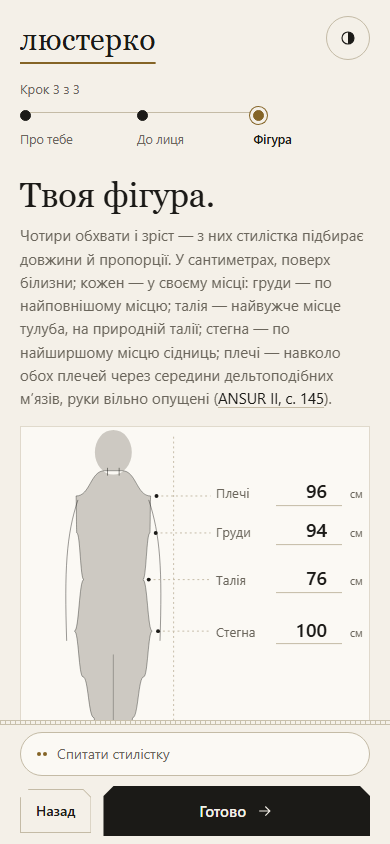
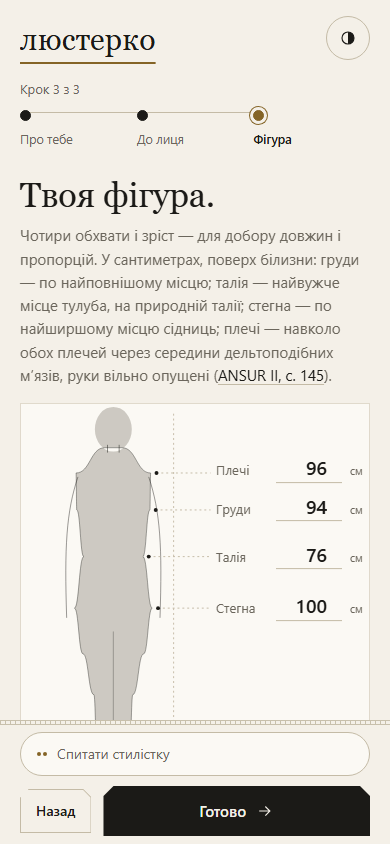
Зберегти положення полів після уточнення підказки плечей

diff --git a/джерела/показ.html b/джерела/показ.html
@@ -180,7 +180,7 @@
 <section id="е-мірки" class="екран">
   <div class="вступ">
     <h1>Твоя фігура.</h1>
-    <p>Чотири обхвати і зріст — з них стилістка підбирає довжини й пропорції. У сантиметрах, поверх білизни; кожен — у своєму місці: груди — по найповнішому місцю; талія — найвужче місце тулуба, на природній талії; стегна — по найширшому місцю сідниць; плечі — навколо обох плечей через середини дельтоподібних м’язів, руки вільно опущені (<a href="https://tools.openlab.psu.edu/publicData/ANSURII-TR11-017.pdf#page=155" target="_blank" rel="noopener noreferrer" title="Hotzman та ін., Measurer’s Handbook: US Army and Marine Corps Anthropometric Surveys, 2010–2011, NATICK/TR-11/017, §6.4.69, с. 145">ANSUR II, с. 145</a>).</p>
+    <p>Чотири обхвати і зріст — для добору довжин і пропорцій. У сантиметрах, поверх білизни: груди — по найповнішому місцю; талія — найвужче місце тулуба, на природній талії; стегна — по найширшому місцю сідниць; плечі — навколо обох плечей через середини дельтоподібних м’язів, руки вільно опущені (<a href="https://tools.openlab.psu.edu/publicData/ANSURII-TR11-017.pdf#page=155" target="_blank" rel="noopener noreferrer" title="Hotzman та ін., Measurer’s Handbook: US Army and Marine Corps Anthropometric Surveys, 2010–2011, NATICK/TR-11/017, §6.4.69, с. 145">ANSUR II, с. 145</a>).</p>
   </div>
   <div class="крокі" id="мір-блок">
     <svg id="вирізка" viewBox="0 0 360 380" aria-hidden="true"></svg>

diff --git a/аудит/корені/Е3-одна-величина.md b/аудит/корені/Е3-одна-величина.md
@@ -2624,6 +2624,6 @@ circumferences. BMC Med Res Methodol 2016;16:49 (https://pmc.ncbi.nlm.nih.gov/ar
 - **ЗНАХІДКА, 13898:** [§6.4.2, с.78 (сторінка PDF 88)](https://tools.openlab.psu.edu/publicData/ANSURII-TR11-017.pdf#page=88) того самого посібника означує висоту правого акроміона. Саме `acromialheight / stature` читає запис рівня «плечі» (`похибка_вимірів_тіла.py:133–134`, його читач — `areas.РІВНІ`). Середини дельтоподібних м’язів і акроміон — різні орієнтири; числову різницю висот не виміряно. Шаблон поза цією частиною. У рядку 13898 додано цей доказ, нового дубля не створено; 13898 і 14024 не закрито.
 - **Прилад ДО → ПІСЛЯ:** `python джерела/прилади/корінь_е3_одна_величина.py`, база `16238d9d60a3d7473acf8f6a292e30df99e27c03`: загалом **3 → 2**, `показ.html` **1 → 0**, п.7 **1 → 0**, п.6 **2 → 2**, нових місць **0**. ПІСЛЯ серед «не місця» є `джерела/показ.html:183 · форма · форма, поле «плечі»: орієнтир з посиланням на джерело`. Код обох запусків приладу — 0. Прилад і храповик не змінено.
 - **Невдале:** прямий запит Python до TR-15/007 отримав `SSLCertVerificationError`; вебінструмент не відкрив цей PDF. Натомість прочитано означення й процедуру з TR-11/017. Початковий `NODE_PATH=node_modules node тест_показу.js` обірвався після 654 звірок: `spawnSync python3 ETIMEDOUT`, розділ 15а, код 2; успішним цей запуск не є.
-- **Знімки 390×844:** `аудит/перевірка/е3_ч34_показ/до.png` і `після.png`, Chromium на шаблоні зі справжніми JS/CSS, без зовнішніх запитів; дочекались прив’язки кнопок старту, відкрили крок 3, однакові мірки 96/94/76/100/168. Переглянуто очима: текст і посилання читаються, горизонтального переповнення й помилок JS немає. Підказка отримала додатковий рядок (162.75 → 186 px), форма опустилась на 23.25 px (403.14 → 426.39 px), накладань немає. Повні виводи приладу — поруч, `прилад_до.txt` і `прилад_після.txt`.
+- **Знімки 390×844:** `аудит/перевірка/е3_ч34_показ/до.png` і `після.png`, Chromium на шаблоні зі справжніми JS/CSS, без зовнішніх запитів; дочекались прив’язки кнопок старту, відкрили крок 3, однакові мірки 96/94/76/100/168. Переглянуто очима: текст і посилання читаються, горизонтального переповнення й помилок JS немає. Вступ підказки скорочено зі збереженням її змісту: висота абзацу **162.75 → 162.75 px**, верх форми **403.14 → 403.14 px**, поле плечей **y=452.88 → 452.88 px**; поля не зсунулися. Повні виводи приладу — поруч, `прилад_до.txt` і `прилад_після.txt`.
 - **Перевірки тривають:** `стенд_знімок.py --дим` — код 0; формат дошки — код 0, одна заміна, помилок 0. Решта батареї та повтор показу ДО → ПІСЛЯ ще не мають остаточного результату.
 - **Лишилось:** узгодити орієнтир обхвату з рівнем шаблону (13898); 14024 лишається фактом попередньої спроби. Вад знайдено: 1 — підтверджена розбіжність у 13898.
